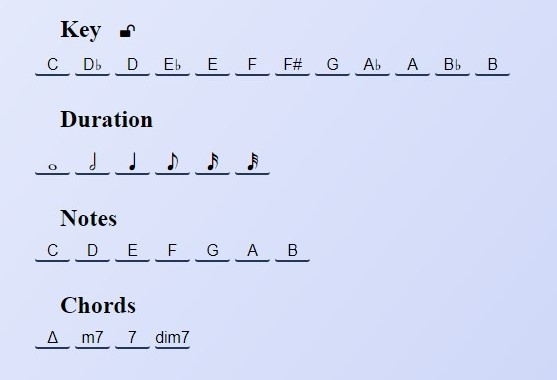
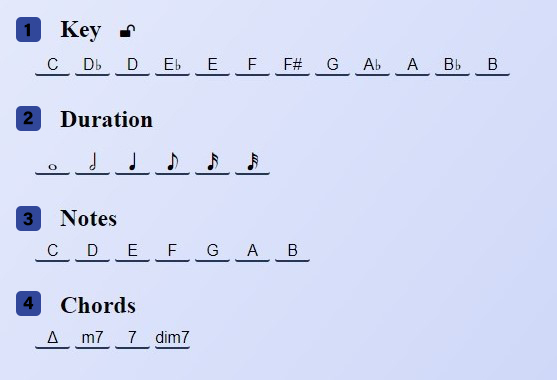
Add README.md and some screenshots

diff --git a/README.md b/README.md
@@ -1,0 +1,80 @@
+# Harmonic-Complexifier
+## A web solution for your music progression
+
+![Screenshot](screenshots/mainButtons.jpg)
+
+## Introduction
+As a combined project for Advanced Coding Toold and Methodologies and Computer Music Representations and Models we developed a JavaScript-based program
+that allows to make your chord progression more elaborated.
+
+## User Interface
+The interface is very simple and intuitive, with many buttons that allows you to insert a new chord in the progression.
+In the following paragraph we'll see each section of the page in detail.
+
+### Input Selection
+
+![Screenshot](screenshots/inputMethod.jpg)
+
+In the top part of the page you can select the method of input for the chords.
+
+1. **Keyboard:** allows you to insert a new chord with the keyboard on the screen
+2. **Buttons:** set as default, allows you to insert a new chord just by clicking on buttons
+
+### Caption
+
+![Screenshot](screenshots/caption.jpg)
+
+In this section we gather the nomenclature used inside the page.
+
+### Buttons
+
+![Screenshot](screenshots/buttons.jpg)
+
+If "Buttons" method is selected, you can build a new chord just by clicking on one button of each row:
+
+1. **Key:** select the key of the progression
+2. **Duration:** select the duration of the chord, shown as a note
+3. **Note:** select the note; all the notes are generated on the circle of fifth, based on the selected key
+4. **Chord:** select the type of chord to add
+
+### Keyboard
+
+![Screenshot](screenshots/keyboard.jpg)
+
+If "Keyboard" method is selected, you can see a keyboard appears and allows you to insert new chords with two different input:
+you can simply click on all the notes that compose the chord you want or you can also press the corresponding keys on your pc keyboard
+
+### Input Progression
+
+![Screenshot](screenshots/input.jpg)
+
+Everytime you click on a button or a new chord is detected by the keyboard, in this section a preview of the chord is updated (1).
+
+That allows you to check the chord before adding it to the progression (2).
+
+You can add the chord in the progression from the preview by clicking on the + button inside the preview section or with the enter key on your keyboard.
+
+If you want to remove the last chord from the progression you can do that with a click on the undo button (3) or pressing the backspace key on your keyboard.
+
+### Error
+
+![Screenshot](screenshots/error.jpg)
+
+If you miss some input, that could it be some buttons or a key, and you try to add the new chord in the progression an error appears
+
+
+### Functional Buttons
+
+![Screenshot](screenshots/funbtn.jpg)
+
+In this section we select the number of iteration that we want to apply and when we click on "Run" a pop-up with the result will appear 
+
+### Result
+
+![Screenshot](screenshots/result.jpg)
+
+1. **Save:** you can export the result and download it in a text file
+2. **Close:** you close the result panel and return to the main page
+
+## Plugin Used
+We used [Vue.js](https://vuejs.org/) to managed all the input chords
